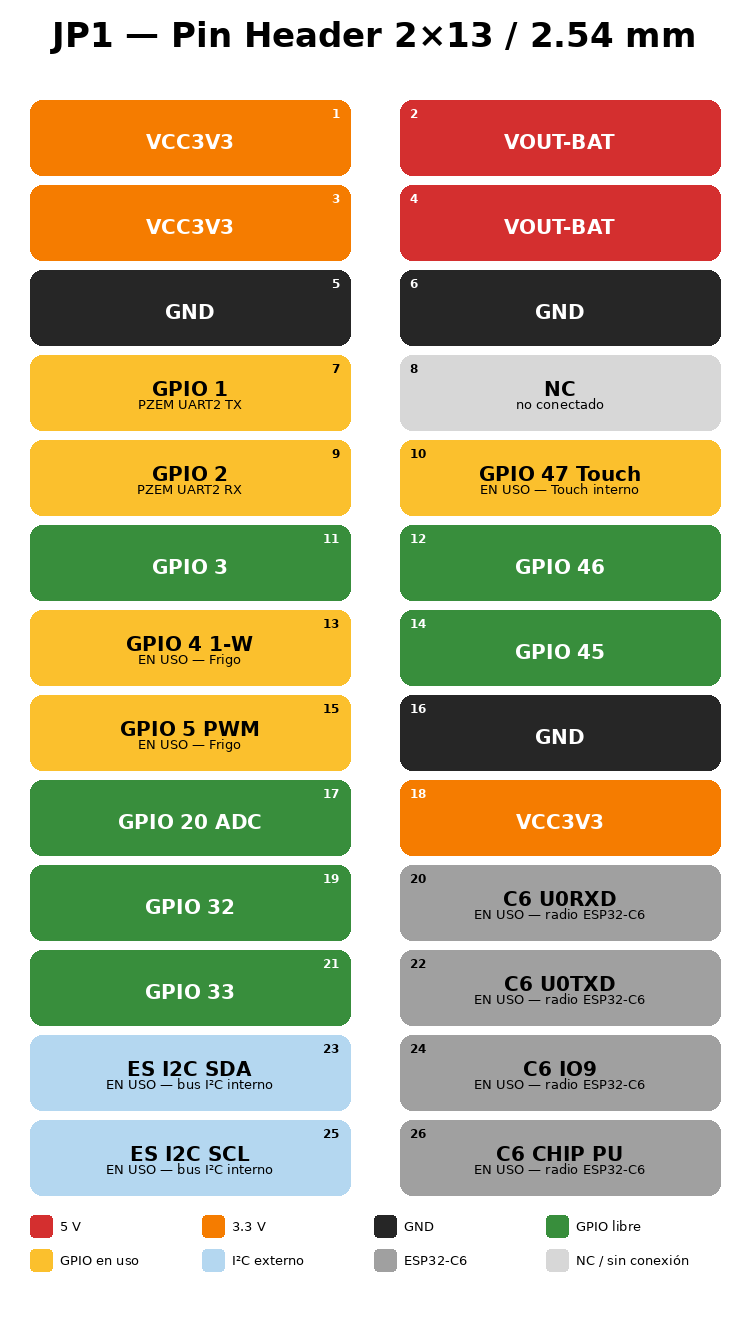
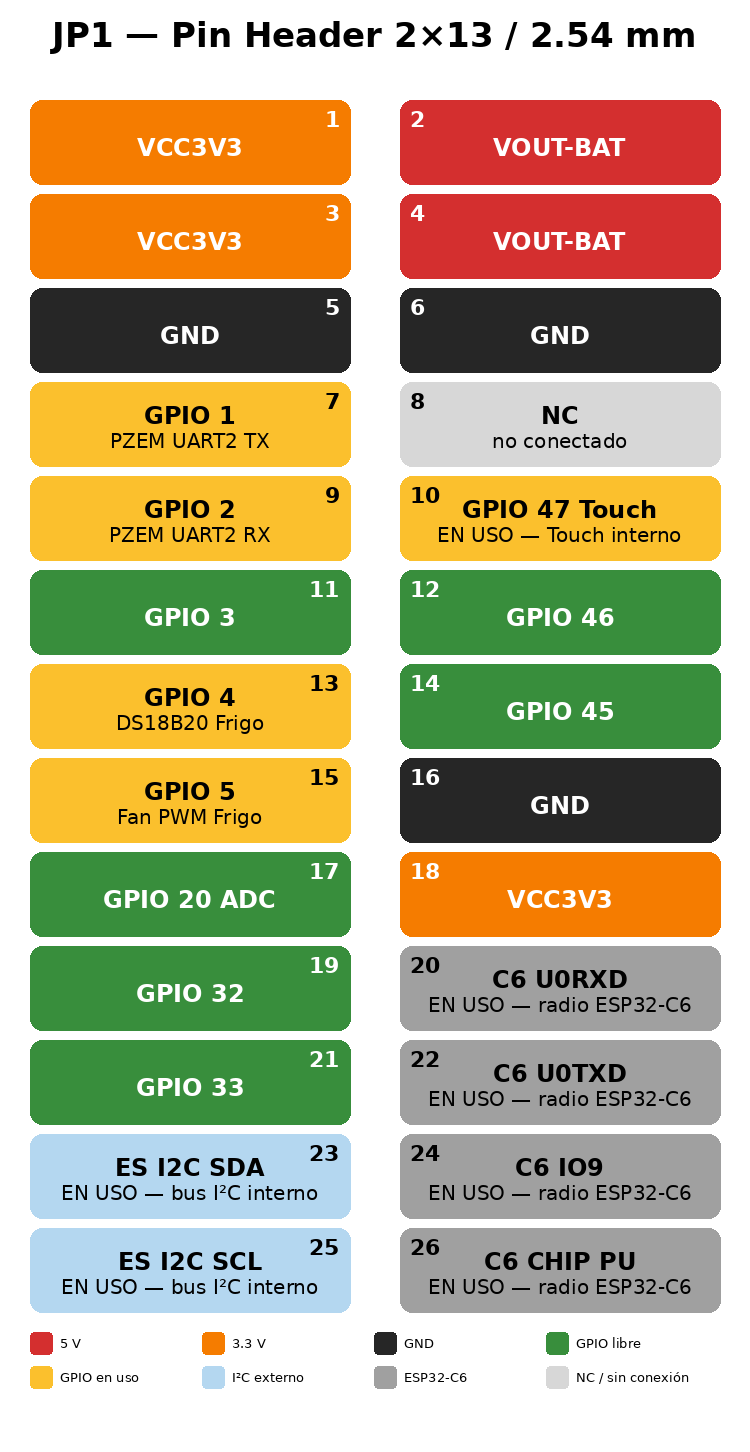
docs(pinout): pullup 1k para cable largo DS18B20, NE185 ya conectado, diagrama JP1 mas legible
- Nota: DS18B20 usa 4.7k con cable corto; con cable ~2m bajar a 1k (mas capacidad de bus)
- Quitado NE185 de "Pendiente conexion fisica" (ya conectado al J5 y funcionando)
- gen_jp1_pinout.py: nombre GPIO 20->24, numero pin 12->22, uso 13->20, mas separacion vertical, tarjeta 75->84
- Etiquetas frigo mas limpias: "GPIO 4 / DS18B20 Frigo" y "GPIO 5 / Fan PWM Frigo"
- Regenerados jp1_pinout.png y el PDF

diff --git a/docs/pinout_guition_jc1060p470c_i.html b/docs/pinout_guition_jc1060p470c_i.html
@@ -172,7 +172,7 @@ Generado a partir del código del firmware VictronSolarDisplay (port ESP32-P4 / 
 <h2>8. Frigorífico — sensores y ventilador</h2>
 <table>
 <tr><th>Función</th><th>Pin</th><th>Conector</th><th>Notas</th></tr>
-<tr><td>1-Wire DS18B20</td><td>GPIO 4</td><td>JP1 pin 13</td><td>Pullup 4.7 kΩ a 3.3 V</td></tr>
+<tr><td>1-Wire DS18B20</td><td>GPIO 4</td><td>JP1 pin 13</td><td>Pullup a 3.3 V: <b>4.7 kΩ</b> con cable corto. Con <b>cable largo (~2 m)</b> bajar a <b>1 kΩ</b> (más capacidad de bus → 4.7 kΩ se queda flojo y falla la lectura).</td></tr>
 <tr><td>Ventilador PWM</td><td>GPIO 5</td><td>JP1 pin 15</td><td>LEDC 25 kHz, control por T_Aletas</td></tr>
 </table>
 
@@ -211,7 +211,7 @@ respuesta de 20 bytes con cabeceras 0xFF en posiciones 0 y 14, checksum
 <table>
 <tr><th>GPIO</th><th>Función</th><th>Periférico / Notas</th></tr>
 <tr><td>0</td><td>GPIO out</td><td>Reset panel JD9165BA (LCD_RST según esquemático real)</td></tr>
-<tr><td>4</td><td>1-Wire</td><td>DS18B20 (JP1 pin 13, pullup 4.7 kΩ)</td></tr>
+<tr><td>4</td><td>1-Wire</td><td>DS18B20 (JP1 pin 13, pullup 4.7 kΩ; 1 kΩ si cable ~2 m)</td></tr>
 <tr><td>5</td><td>LEDC PWM</td><td>Ventilador frigo (JP1 pin 15, 25 kHz)</td></tr>
 <tr><td>7</td><td>I2C SDA</td><td>GT911 + RX8025T + ES8311</td></tr>
 <tr><td>8</td><td>I2C SCL</td><td></td></tr>
@@ -356,11 +356,9 @@ en gris hasta conectar el cable del NE185 al J5)</li>
 <div class="nota">
 <strong>[!]</strong> Pendiente conexión física:
 <ul>
-<li>DS18B20 1-Wire en GPIO 4 → JP1 pin 13 (pullup 4.7 kΩ a 3.3 V)</li>
+<li>DS18B20 1-Wire en GPIO 4 → JP1 pin 13 (pullup 4.7 kΩ a 3.3 V; con cable largo ~2 m usar 1 kΩ)</li>
 <li>Ventilador PWM en GPIO 5 → JP1 pin 15</li>
-<li>PZEM-004T → JP1 pin 7 (GPIO 1 TX) y pin 9 (GPIO 2 RX) — pares 4 y 5, lo más arriba posible del IDC 2x10</li>
-<li><strong>NE185 RS-485 → conector J5</strong> (MX 1.25 4P, conector #11). Cable 4 hilos del derivador NE185: A, B, GND, +5V. NO se necesita caja ni hardware externo.</li>
-</ul>
+<li>PZEM-004T → JP1 pin 7 (GPIO 1 TX) y pin 9 (GPIO 2 RX) — pares 4 y 5, lo más arriba posible del IDC 2x10</li></ul>
 </div>
 <p class="small">
 <strong>Bug del fabricante:</strong> el esquemático Guition indica RX8130CE como RTC pero la

diff --git a/scripts/gen_jp1_pinout.py b/scripts/gen_jp1_pinout.py
@@ -42,9 +42,9 @@ PINS = {
     10: (C_USE, "GPIO 47 Touch", "EN USO — Touch interno", C_TXT_DARK),
     11: (C_FREE, "GPIO 3", "", C_TXT_WHITE),
     12: (C_FREE, "GPIO 46", "", C_TXT_WHITE),
-    13: (C_USE, "GPIO 4 1-W", "EN USO — Frigo", C_TXT_DARK),
+    13: (C_USE, "GPIO 4", "DS18B20 Frigo", C_TXT_DARK),
     14: (C_FREE, "GPIO 45", "", C_TXT_WHITE),
-    15: (C_USE, "GPIO 5 PWM", "EN USO — Frigo", C_TXT_DARK),
+    15: (C_USE, "GPIO 5", "Fan PWM Frigo", C_TXT_DARK),
     16: (C_GND, "GND", "", C_TXT_WHITE),
     17: (C_FREE, "GPIO 20 ADC", "", C_TXT_WHITE),
     18: (C_3V3, "VCC3V3", "", C_TXT_WHITE),
@@ -62,7 +62,7 @@ PINS = {
 IMG_W = 750
 MARGIN = 30
 CARD_W = 320
-CARD_H = 75
+CARD_H = 84
 CARD_GAP_X = 10  # espacio centro entre las 2 columnas
 CARD_GAP_Y = 10
 RADIUS = 12
@@ -85,9 +85,9 @@ def font(size, bold=False):
     return ImageFont.load_default()
 
 F_TITLE = font(34, bold=True)
-F_NAME  = font(20, bold=True)
-F_SUB   = font(13)
-F_PIN   = font(12, bold=True)
+F_NAME  = font(24, bold=True)
+F_SUB   = font(20)
+F_PIN   = font(22, bold=True)
 F_LEG   = font(13)
 
 img = Image.new("RGB", (IMG_W, IMG_H), C_BG)
@@ -119,13 +119,13 @@ def draw_card(x, y, pin, data, pin_align_right):
     nbox = d.textbbox((0, 0), name, font=F_NAME)
     nw = nbox[2] - nbox[0]
     nh = nbox[3] - nbox[1]
-    name_y = y + (CARD_H - nh) // 2 - (8 if sub else 0)
+    name_y = y + (CARD_H - nh) // 2 - (14 if sub else 0)
     d.text((x + (CARD_W - nw) // 2, name_y), name, font=F_NAME, fill=tcol)
     # Subtítulo centrado debajo
     if sub:
         sbox = d.textbbox((0, 0), sub, font=F_SUB)
         sw = sbox[2] - sbox[0]
-        d.text((x + (CARD_W - sw) // 2, name_y + nh + 4), sub,
+        d.text((x + (CARD_W - sw) // 2, name_y + nh + 10), sub,
                font=F_SUB, fill=tcol)
 
 y = HDR_H + MARGIN